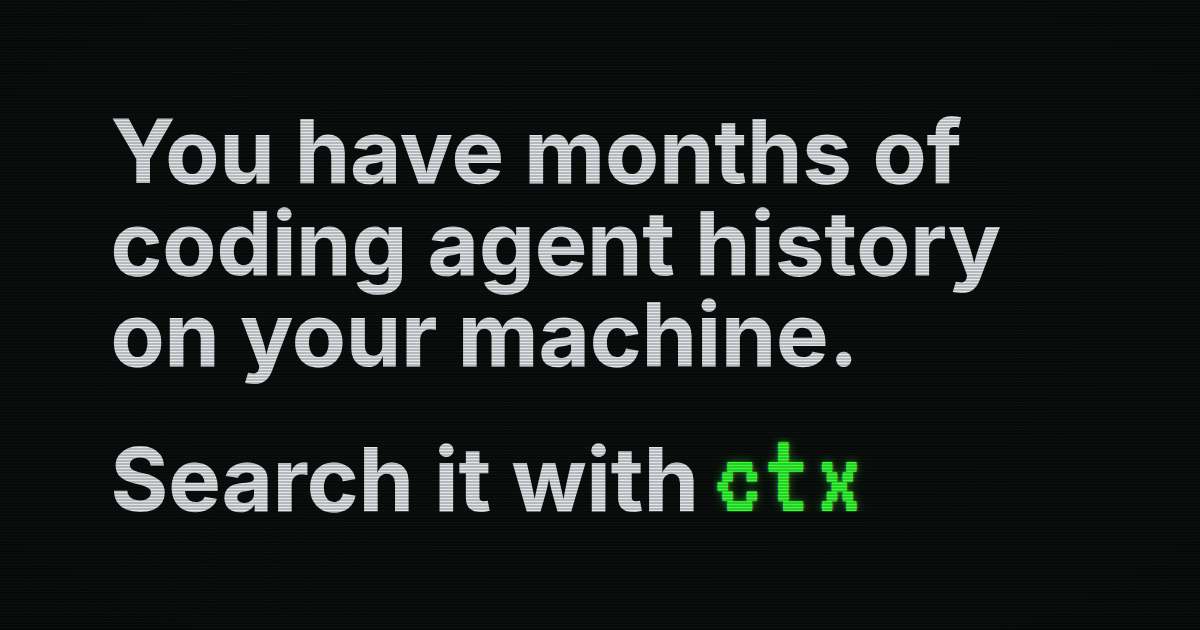
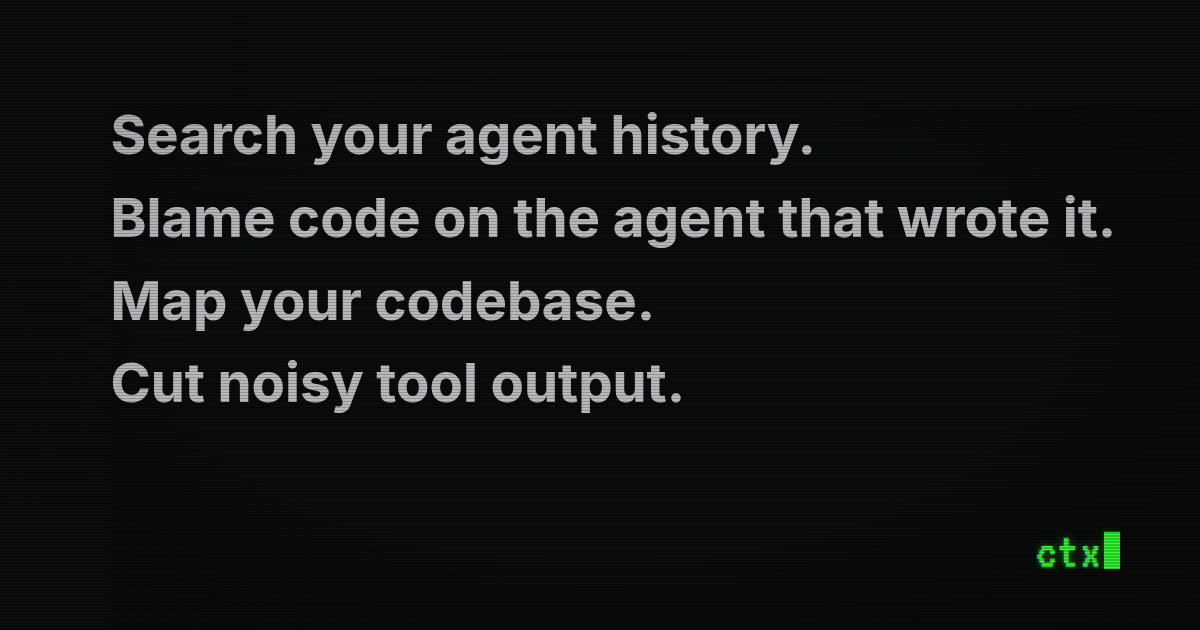
Refresh unified README branding

Changed region(s): [[0.0925, 0.181, 0.925, 0.6635], [0.0925, 0.6937, 0.74, 0.8143], [0.8633, 0.8444, 0.9558, 0.9048]]

diff --git a/README.md b/README.md
@@ -1,4 +1,4 @@
-<img src="docs/assets/ctx-readme-banner.png" alt="You have months of coding agent history on your machine. Search it with ctx." width="100%">
+<img src="docs/assets/ctx-readme-banner.png" alt="Search your agent history. Blame code on the agent that wrote it. Map your codebase. Cut noisy tool output." width="100%">
 
 **ctx** is an open-source CLI for fast local search across your past coding agent sessions. You can search messages and tool calls across agents and sessions, then jump straight to the exact event or full transcript for any result.
 
@@ -54,13 +54,63 @@ Run the repository's shell scripts from Bash. See
 [Bazel's Windows setup guide](https://bazel.build/install/windows)
 for MSYS2 setup and troubleshooting if Bazel cannot find Bash or Visual C++.
 
+## Search your agent history
+
+Your past coding agent sessions already live on your machine, usually in JSONL files or SQLite databases under directories such as `~/.claude` and `~/.codex`.
+
+`ctx setup` discovers those sources and reads them without modifying them. It converts each provider’s format into consistent local records for sessions, messages, tool calls, relationships, and repository activity, then stores and indexes those records locally.
+
+ctx does not require hooks or any code running inside the agent process. Automatic indexing is on by default and keeps the index current as those history sources change. Each update is completed before it becomes visible, so commands never read a partially built index.
+
+Every session and event receives a stable ctx ID and retains its complete transcript content and source information. `ctx search` finds the relevant history, `ctx show` retrieves the exact event or full transcript, and `ctx locate` identifies where it came from. Semantic search and Blame use those same records.
+
+```bash
+# Index all of your existing local agent sessions
+ctx setup
+
+# Your agent can search prior work with normal language
+ctx search "failed migration"
+
+# Search sessions and events that touched a file
+ctx search --file crates/foo/src/lib.rs
+
+# Or search multiple terms
+ctx search --term "failed migration" --term rollback --term "cursor rename"
+
+# Results include matching sessions, snippets, and ctx IDs
+# evt_01h...  ses_01h...  codex  "migration expected the old cursor name" ...
+
+# Print the matching part of the old transcript
+ctx show event <ctx-event-id> --window 3
+
+# Or print a compact transcript of the original session
+ctx show session <ctx-session-id>
+```
+
+Search uses BM25 lexical matching by default. Give it likely terms—an error, file, command, or decision—and it ranks sessions containing those terms.
+
+### Semantic search
+
+Semantic search helps when related ideas use different wording. ctx computes embeddings locally and searches them directly, without a vector database to run. Enable it with:
+
+```bash
+ctx semantic enable
+ctx semantic status
+```
+
+Automatic indexing is the default, so enablement starts or recovers the daemon that acquires the local model and builds the semantic projection. Add `--wait` to wait for readiness. If you selected manual indexing, plain enablement records the opt-in without changing modes; run `ctx index mode auto` for automatic catch-up or use an explicit semantic search with `--refresh wait`. Lexical search remains available while embeddings build; hybrid search uses lexical and semantic evidence automatically when coverage is ready. `ctx semantic disable` turns the feature off without deleting downloaded assets.
+
+ctx does not send your prompts, transcripts, or indexed history to a cloud service, call model APIs, require API keys, or write into your source repositories. Transcript text is preserved rather than automatically redacted, so review copied output before sharing it outside your machine.
+
+For the full pipeline, see [How ctx works](https://ctx.rs/concepts/how-it-works). For a quick first run, see [Quickstart](https://ctx.rs/first-search).
+
 ## 50x more token-efficient than raw transcript search
 
 By structuring agent history into sessions, events, metadata, and indexed fields, then returning ranked cited matches, agents can access meaningful history with far fewer tokens than raw search. Results vary by query and corpus, but raw search is often so token-heavy that it can be effectively the same as not having usable history.
 
 <img src="docs/assets/ctx-token-efficiency-chart.png" alt="Token output per agent history search: ctx search 917 tokens, raw transcript search 45,734 tokens." width="100%">
 
-## Git blame for agent sessions
+## Blame code to the agent that wrote it
 
 `git blame` tells you which commit last changed a line. `ctx blame` tells you which agent session produced that commit, with exact citations back to the original transcript and recorded tool calls.
 
@@ -111,55 +161,138 @@ Like ctx indexing and search capabilities, blame runs locally, so your code and 
 
 [Learn how to use Blame](docs/blame.md), including supported inputs, evidence limits, and local indexing.
 
+## Map your codebase
+
+Graphify started with a great idea and became popular fast. The problem is that its Python/NetworkX architecture does not scale well. It installs about 30 direct dependencies, and the CLI reloads the entire graph into memory for every query. On a large repo, that can make each search slow enough to drag down an agent’s entire task.
+
+ctx graph is a rewrite in Rust. It keeps the graph indexed in SQLite, so searches query the database directly and updates only touch changed files. Static indexing and search run as one native binary with no Python environment, API key, model, or background service.
+
+If you aren’t familiar with Graphify, it’s like a local version of Sourcegraph: it builds a graph of your codebase and docs so an agent can ask who calls something, what depends on it, and what might break if it changes.
+
+You might not need ctx graph or Graphify for a smaller project. Agents are surprisingly good at getting around a codebase using normal read and search tools. On a larger project, ctx graph gives them a much faster way to follow relationships across files instead of spending tokens repeatedly searching the repository.
+
+**If you train coding models, try giving ctx graph to the agents in your rollouts.**
+
+## Try it
+
+From any project:
+
+```bash
+ctx graph index .
+ctx graph stats
+ctx graph search authenticate
+```
+
+Replace `authenticate` with a symbol from your project, then copy its exact ID into an impact query. That shows the symbol, the code that depends on it, and the relationship between them:
+
+```text
+$ ctx graph impact 'python:src/auth.py:authenticate@64'
+Generation 1 (indexed snapshot)
+python:src/auth.py:authenticate@64  function  authenticate  src/auth.py:4
+python:src/auth.py:login@136         function  login         src/auth.py:7
+python:src/auth.py:login@136 --calls--> python:src/auth.py:authenticate@64
+```
+
+ctx graph saves the graph at `.graf/index.db`. After changing code, update only what changed:
+
+```bash
+ctx graph update
+```
+
+Use `--json` for structured output and an exact node ID when a name is ambiguous. The [usage guide](docs/unified-context.md) covers callers, callees, paths, filters, reports, exports, multiple projects, and supported inputs.
+
+## Why ctx graph is better than Graphify
+
+ctx graph is Graphify, but rebuilt properly in Rust: **1000x faster search, 89x faster updates, and one native binary.**
+
+<img src="docs/assets/ctx-graph-vscode-performance.svg" alt="On the full VS Code repository, ctx graph searched in 13 milliseconds instead of 13.26 seconds and updated an unchanged graph in 880 milliseconds instead of 77.97 seconds." width="100%">
+
+It is also stricter about correctness. Updates become visible as one complete generation, so a failed extraction cannot publish half a graph. When two symbols could be the answer, ctx graph returns the ambiguity and the source evidence instead of guessing.
+
+ctx graph is an independent implementation, not a fork or a drop-in replacement for Graphify's Python API. The chart uses the complete 19,036-file VS Code repository on an M1 Mac mini. Cold indexing was effectively tied, while ctx graph produced 2.4x as many nodes and 1.7x as many edges with 31% less peak memory. See the [benchmark method, results, and tradeoffs](docs/unified-context.md).
+
+## Migrate from Graphify
+
+Existing `.graf/index.db` databases work with `ctx graph`; no conversion is required.
+
+Use `ctx graph --help` for the full command set.
+
+## Use ctx graph with an agent
+
+Use `ctx integrations install skill` and `ctx integrations install mcp --agent codex`.
+
+Optional project graph tool hooks use `ctx graph install --platform gemini --project PATH` (or `claude` or `codebuddy`); remove them with `ctx graph uninstall` and the same selections.
+
+## Cut noisy tool output
+
+ctx uses heuristics and Jev to cut noisy tool output before it reaches your coding agent.
+
+Unlike RTK, it leaves the original commands untouched for safety, and allows retrieval of the full output if any of the removed content is needed.
+
+## Why ctx output
+
+* **Use less context.** Spend tokens on the task instead of repeated paths, logs,
+    and formatting.
+* **Keep the useful information.** Generic text and JSON compaction can be
+    restored. Git and test views retain the details needed to act on failures.
+* **Stay close to native speed.** ctx is one native binary with no language
+    runtime, daemon, or background service.
+* **Run locally by default.** Ordinary compaction makes no network calls and
+    ctx has no telemetry.
+* **See the result.** Optional original retention lets you recover complete captured output with
+    `ctx recall`.
+
+## Try it
+
+Run commands through ctx:
+
+```sh
+ctx run --capture -- git status
+ctx run --capture -- cargo test
+ctx status
+```
+
+After `ctx integrations install output-hook --agent claude-code`, supported agents use ctx automatically. You can also compact
+a saved result or stdin directly:
+
+```sh
+ctx compact build.log
+long-command | ctx compact
+```
+
+ctx only chooses a representation when the complete result uses fewer
+`o200k_base` tokens. Short output, live progress, and binary data pass through.
+When compaction is not useful or supported, the original output wins.
+
+## Why ctx output instead of RTK
+
+ctx favors broad, conservative compaction over a large collection of
+command-specific summaries. That gives it consistent behavior on arbitrary tool
+output and makes generic compaction reversible. It also has automatic agent
+setup, local savings reports, optional original-output recovery, and a
+one-command migration for recognized RTK integrations.
+
+In the [v0.4.0 release benchmark](benchmarks/results/2026-09-21-release-v0.4.0/README.md),
+ctx was faster than RTK 0.49 on all ten of our sample workloads and stayed within
+1.35 ms of running the command directly. Across workloads collected from our own real usage,
+ctx reduced tool call output by 43%.
+
 ## How it works
 
-Your past coding agent sessions already live on your machine, usually in JSONL files or SQLite databases under directories such as `~/.claude` and `~/.codex`.
+ctx tries several compact representations for complete output and counts the
+full result with its embedded tokenizer. It uses the smallest result only when
+it beats the original. Text stays byte-exact after restoration. Supported JSON
+keeps values, types, and number spellings.
 
-`ctx setup` discovers those sources and reads them without modifying them. It converts each provider’s format into consistent local records for sessions, messages, tool calls, relationships, and repository activity, then stores and indexes those records locally.
+For recognized Git status and test output, ctx can use a shorter presentation.
+Failures, diagnostics, ignored tests, totals, paths, and repository state remain.
+You can also ask explicitly for line, JSON-field, summary, error, or test views
+when omission is what you want.
 
-ctx does not require hooks or any code running inside the agent process. Automatic indexing is on by default and keeps the index current as those history sources change. Each update is completed before it becomes visible, so commands never read a partially built index.
-
-Every session and event receives a stable ctx ID and retains its complete transcript content and source information. `ctx search` finds the relevant history, `ctx show` retrieves the exact event or full transcript, and `ctx locate` identifies where it came from. Semantic search and Blame use those same records.
-
-```bash
-# Index all of your existing local agent sessions
-ctx setup
-
-# Your agent can search prior work with normal language
-ctx search "failed migration"
-
-# Search sessions and events that touched a file
-ctx search --file crates/foo/src/lib.rs
-
-# Or search multiple terms
-ctx search --term "failed migration" --term rollback --term "cursor rename"
-
-# Results include matching sessions, snippets, and ctx IDs
-# evt_01h...  ses_01h...  codex  "migration expected the old cursor name" ...
-
-# Print the matching part of the old transcript
-ctx show event <ctx-event-id> --window 3
-
-# Or print a compact transcript of the original session
-ctx show session <ctx-session-id>
-```
-
-Search uses BM25 lexical matching by default. Give it likely terms—an error, file, command, or decision—and it ranks sessions containing those terms.
-
-### Semantic search
-
-Semantic search helps when related ideas use different wording. ctx computes embeddings locally and searches them directly, without a vector database to run. Enable it with:
-
-```bash
-ctx semantic enable
-ctx semantic status
-```
-
-Automatic indexing is the default, so enablement starts or recovers the daemon that acquires the local model and builds the semantic projection. Add `--wait` to wait for readiness. If you selected manual indexing, plain enablement records the opt-in without changing modes; run `ctx index mode auto` for automatic catch-up or use an explicit semantic search with `--refresh wait`. Lexical search remains available while embeddings build; hybrid search uses lexical and semantic evidence automatically when coverage is ready. `ctx semantic disable` turns the feature off without deleting downloaded assets.
-
-ctx does not send your prompts, transcripts, or indexed history to a cloud service, call model APIs, require API keys, or write into your source repositories. Transcript text is preserved rather than automatically redacted, so review copied output before sharing it outside your machine.
-
-For the full pipeline, see [How ctx works](https://ctx.rs/concepts/how-it-works). For a quick first run, see [Quickstart](https://ctx.rs/first-search).
+An optional semantic selector can reduce large Pi `grep` results further. It is
+off by default, limited to explicitly allowed projects, and saves the complete
+original for `ctx recall`. It uses TypeSafe Jev and therefore sends eligible
+passages to an external service. See the reference before enabling it.
 
 ## Why is ctx so fast?
 
